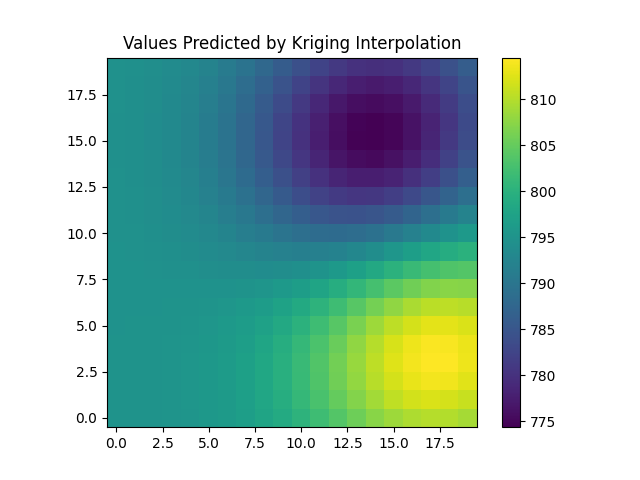
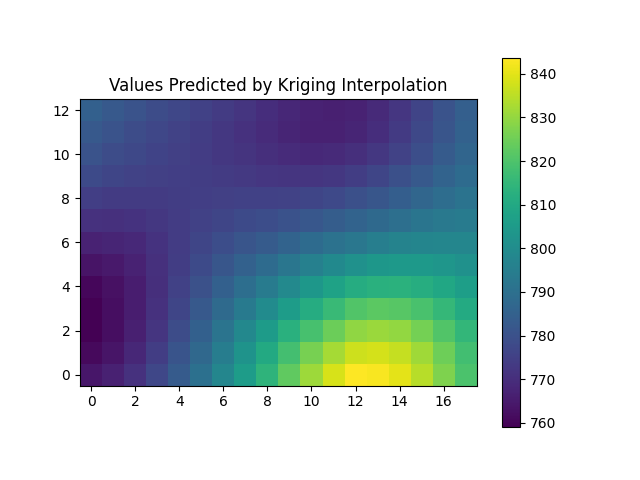
Real soil compaction (Jaime et al.'s dataset) data is sampled

diff --git a/mesa_spatial_sampling_MRS/model.py b/mesa_spatial_sampling_MRS/model.py
@@ -30,7 +30,8 @@ class Robot(Agent):
         # MESA represents colours in Hex, so we convert to this from RGB
         self.color = ("#%02X%02X%02X" % (r(), r(), r()))
         # Each robot has its own cost map for cost based avoidance of collision with other robots
-        self.movement_matrix = np.ones((self.model.width, self.model.height))
+        # self.movement_matrix = np.ones((self.model.width, self.model.height))
+        self.movement_matrix = np.ones((self.model.height, self.model.width))
         # The Astar class from `astar-python` provides the A* implementation
         self.astar = Astar(self.movement_matrix)
         self.goal = []
@@ -103,7 +104,7 @@ class Robot(Agent):
                 if len(self.path) == 1:
                     self.path_step = 0
                 self.model.sampled[self.path[self.path_step][0], self.path[self.path_step][1]] = \
-                    self.model.gaussian[self.path[self.path_step][0], self.path[self.path_step][1]]
+                    self.model.gaussian[self.path[self.path_step][1], self.path[self.path_step][0]]
 
                 # Check goal cell for SampledCell agent (i.e. already sampled)
                 sampled_cells_to_del = []
@@ -116,8 +117,8 @@ class Robot(Agent):
 
                 # For the purpose of visualisation in MESA, the sampled cell is instantiated as an agent and placed on
                 # the grid to shade the cell according to the sampled value
-                agent = SampledCell(self.goal, self.model, self.model.gaussian[self.path[self.path_step][0],
-                                                                               self.path[self.path_step][1]])
+                agent = SampledCell(self.goal, self.model, self.model.gaussian[self.path[self.path_step][1],
+                                                                               self.path[self.path_step][0]])
                 self.model.grid.place_agent(agent, tuple(self.goal))
                 if self.model.verbose:
                     print("Robot", self.unique_id, "sampled value", agent.value, "at", self.goal)
@@ -160,7 +161,7 @@ class Robot(Agent):
                     # Run prediction
                     m, v = predict_by_kriging(xgrid, ygrid, x_arr, y_arr, o_arr, variogram=variogram)
 
-                    self.model.RMSE = np.mean(np.power(np.array(self.model.gaussian).swapaxes(0, 1) - m, 2))
+                    self.model.RMSE = np.mean(np.power(np.array(self.model.gaussian) - m, 2))
                     self.model.avg_variance = np.mean(v)
                     # print("RMSE:", self.model.RMSE)
 
@@ -220,6 +221,8 @@ class Robot(Agent):
                                 if not word.isdigit():
                                     cluster_max_v_cell_str.remove(word)
                             cluster_max_v_cell = [int(word) for word in cluster_max_v_cell_str]
+                            cluster_max_v_cell = [int(word) for word in cluster_max_v_cell_str]
+                            cluster_max_v_cell = [cluster_max_v_cell[1], cluster_max_v_cell[0]]
                             if self.model.verbose:
                                 print(cluster_max_v_cell)
                             self.model.candidate_goals.append(cluster_max_v_cell)
@@ -305,7 +308,7 @@ class Robot(Agent):
                                     self.model.grid.move_agent(self, neighbour_cell)
                                     self.path_step = 1
                                     self.distance_travelled += 1
-                                    self.visited[neighbour_cell[1], neighbour_cell[0]] += 1
+                                    self.visited[neighbour_cell[0], neighbour_cell[1]] += 1
                                     self.trajectory.append(neighbour_cell)
 
                                 # If the next cell is not deadlocked, simply move the robot there
@@ -313,7 +316,7 @@ class Robot(Agent):
                                     self.model.grid.move_agent(self, tuple(self.path[self.path_step]))
                                     self.path_step = 1
                                     self.distance_travelled += 1
-                                    self.visited[self.path[self.path_step][1], self.path[self.path_step][0]] += 1
+                                    self.visited[self.path[self.path_step][0], self.path[self.path_step][1]] += 1
                                     self.trajectory.append(self.path[self.path_step])
                             else:
                                 if self.model.verbose:
@@ -341,10 +344,11 @@ class Robot(Agent):
                                     self.model.grid.move_agent(self, free_cell)
                                     self.path_step = 1
                                     self.distance_travelled += 1
-                                    self.visited[free_cell[1], free_cell[0]] += 1
+                                    self.visited[free_cell[0], free_cell[1]] += 1
                                     self.trajectory.append(free_cell)
 
         elif len(self.goals) > 0:
+            self.path = self.astar.run(self.pos, self.goal)
             print(self.goals)
 
         # print("Robot", str(self.unique_id), "current cell:", str(self.pos))
@@ -362,7 +366,9 @@ class Robot(Agent):
         self.goal = goal_pos
         if self.model.verbose:
             print("Robot", self.unique_id, "assigned task at", self.goal, "at step", self.model.step_num)
-        self.path = self.astar.run(np.array(self.pos) - [1, 1], np.array(self.goal) - [1, 1])
+        # self.path = self.astar.run(np.array(self.pos) - [1, 1], np.array(self.goal) - [1, 1])
+        self.path = self.astar.run(np.array(self.pos), np.array(self.goal))
+
         self.path_step = 1
         self.current_task_completion_time = 0
 
@@ -388,10 +394,14 @@ class Robot(Agent):
                         for j in range(len(candidate_goal_queue)):
                             if j > 0:
                                 prev_goal = candidate_goal_queue[j-1]
-                                queue_cost += np.sum([self.movement_matrix[step[0], step[1]] for
+                                # queue_cost += np.sum([self.movement_matrix[step[0], step[1]] for
+                                #                       step in self.astar.run(prev_goal, candidate_goal_queue[j])])
+                                queue_cost += np.sum([self.movement_matrix[step[1], step[0]] for
                                                       step in self.astar.run(prev_goal, candidate_goal_queue[j])])
                             else:
-                                queue_cost += np.sum([self.movement_matrix[step[0], step[1]] for step in self.astar.run(
+                                # queue_cost += np.sum([self.movement_matrix[step[0], step[1]] for step in self.astar.run(
+                                #     self.pos, goal_pos)])
+                                queue_cost += np.sum([self.movement_matrix[step[1], step[0]] for step in self.astar.run(
                                     self.pos, goal_pos)])
                         # print(queue_cost)
                         if best_queue_cost == -1 or best_queue_cost > queue_cost:
@@ -413,7 +423,12 @@ class SampledCell(Agent):
         super().__init__(pos, model)
         self.pos = pos
         self.value = value
+        # Normalise value to 0-1 range for grayscale representation of value
+        print(type(self.model))
         self.color = "#%02x%02x%02x" % (int(value * 255), int(value * 255), int(value * 255))
+        if isinstance(self.model, SpatialSamplingModel):
+            val_normalised = self.value / self.model.max_sample_value
+            self.color = "#%02x%02x%02x" % (int(val_normalised * 255), int(val_normalised * 255), int(val_normalised * 255))
         self.type = 1  # Agent type 1 is a sampled cell
 
 
@@ -426,7 +441,7 @@ class UnsampledCell(SampledCell):
 
 
 class SpatialSamplingModel(Model):
-    def __init__(self, height=20, width=20, num_robots=2, task_allocation="RR", trial_num=1,
+    def __init__(self, height=20, width=20, num_robots=2, task_allocation="SSI", trial_num=1,
                  sampling_strategy="dynamic",
                  results_dir="./results/3robs_20x20_grid_sampling_all_cells/",
                  verbose=True):
@@ -436,9 +451,19 @@ class SpatialSamplingModel(Model):
         with open(r"interpolated_jaime_compaction_0cm_kpas.pickle", "rb") as input_file:
             self.gaussian = np.array(pickle.load(input_file))
 
-        self.gaussian = np.swapaxes(self.gaussian, 0, 1)
-        self.width = self.gaussian.shape[0]
-        self.height = self.gaussian.shape[1]
+        plt.imshow(self.gaussian,
+                   cmap="gray", origin="lower")
+        plt.title("Underlying soil compaction data")
+        plt.colorbar()
+        plt.savefig("ground_truth_distribution.png")
+        plt.close()
+        # self.gaussian = np.swapaxes(self.gaussian, 0, 1)
+        # self.gaussian = self.gaussian.swapaxes(0, 1)
+        self.max_sample_value = np.max(self.gaussian)
+        # self.gaussian = self.gaussian / self.max_sample_value
+
+        self.width = width
+        self.height = height
 
         self.num_robots = num_robots
         self.robots = []
@@ -526,7 +551,7 @@ class SpatialSamplingModel(Model):
                         if other_agent.unique_id != current_agent_id:
                             for cell in self.grid.iter_neighborhood((current_agent_pos[0], current_agent_pos[1]), False,
                                                                     True, radius=2):
-                                other_agent.movement_matrix[cell[0], cell[1]] = 10
+                                other_agent.movement_matrix[cell[1], cell[0]] = 2  # 10
 
                 if self.step_num == 1:
                     agent.queue_sampling(agent.pos)
@@ -637,7 +662,7 @@ class SpatialSamplingModel(Model):
                 for agent in self.schedule.agents:
                     if agent.type == 0:  # True if the agent is a robot
                         try:
-                            agent.bid = np.sum([agent.movement_matrix[step[0], step[1]] for step in agent.astar.run(
+                            agent.bid = np.sum([agent.movement_matrix[step[1], step[0]] for step in agent.astar.run(
                                 agent.pos, tuple(task))])
                             if self.verbose:
                                 print("Robot", str(agent.unique_id), "bid:", str(agent.bid))

diff --git a/mesa_spatial_sampling_MRS/compaction_data_formatting.py b/mesa_spatial_sampling_MRS/compaction_data_formatting.py
@@ -17,8 +17,8 @@ lat_range = np.max(compaction_df["lat"]) - np.min(compaction_df["lat"])
 lon_range = np.max(compaction_df["lon"]) - np.min(compaction_df["lon"])
 lon_to_lat_ratio = np.max(compaction_df["lon"]) / np.max(compaction_df["lat"])
 print("Lon to lat ratio:", lon_to_lat_ratio)
-xgrid = np.arange(np.min(compaction_df["lon"]), np.max(compaction_df["lon"]), lon_range/20)
-ygrid = np.arange(np.min(compaction_df["lat"]), np.max(compaction_df["lat"]), lat_range/20)
+xgrid = np.arange(np.min(compaction_df["lon"]), np.max(compaction_df["lon"]), lon_range/18)
+ygrid = np.arange(np.min(compaction_df["lat"]), np.max(compaction_df["lat"]), lat_range/13)
 
 x_arr = np.array(compaction_df["lon"])
 y_arr = np.array(compaction_df["lat"])

diff --git a/mesa_spatial_sampling_MRS/server.py b/mesa_spatial_sampling_MRS/server.py
@@ -25,7 +25,7 @@ with open(r"interpolated_jaime_compaction_0cm_kpas.pickle", "rb") as f:
 
 width = np.shape(interpolated_compaction_data)[1]
 height = np.shape(interpolated_compaction_data)[0]
-canvas_element = CanvasGrid(draw, width, height, width*10, height*10)
+canvas_element = CanvasGrid(draw, width, height, width*20, height*20)
 RMSE_chart = ChartModule([{"Label": "RMSE",
                            "Color": "Black"}],
                          data_collector_name="data_collector",
